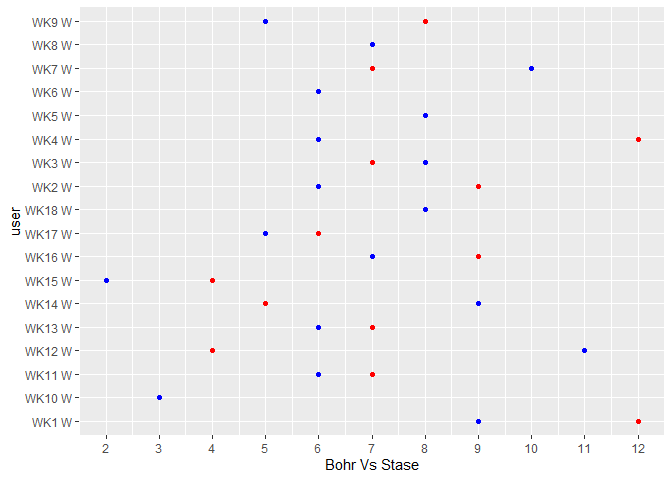
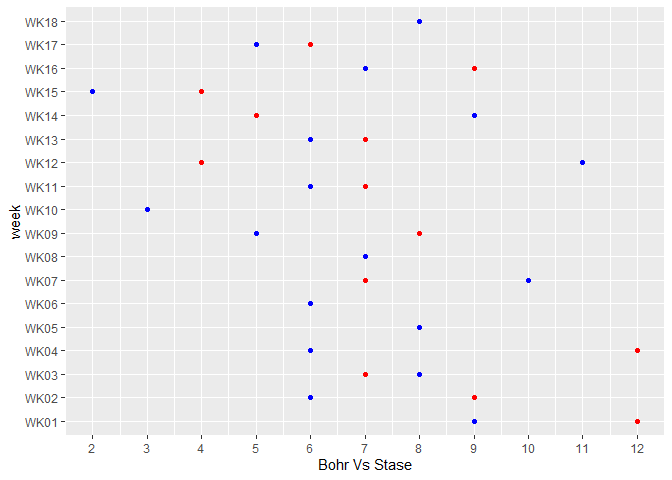
correlation matrix

diff --git a/Pickem.md b/Pickem.md
@@ -5,21 +5,21 @@ Pickem Charts
 library(tidyverse)
 library(moderndive)
 library(janitor)
+library(corrr)
 ```
 
 ``` r
 Pickem <- read_csv(here::here("2021- Pickem League Wins.csv")) %>% 
-  clean_names() %>% 
-  select(-'x15':-'x27')
+  clean_names()
 ```
 
 ``` r
 Chris <- Pickem %>% 
-  summarise(chris,user)
+  summarise(chris,week)
 Jake <- Pickem %>% 
-  summarise(jake,user)
+  summarise(jake,week)
 
-ggplot() + geom_point(data=Chris,aes(x=chris, y=user), colour='red') + geom_point(alpha=.5) + geom_point(data=Jake, aes(x=jake, y=user), colour= 'blue') + geom_point(alpha=.5)
+ggplot() + geom_point(data=Chris,aes(x=chris, y=week), colour='red') + geom_point(alpha=.5) + geom_point(data=Jake, aes(x=jake, y=week), colour= 'blue') + geom_point(alpha=.5)
 ```
 
 ![](Pickem_files/figure-gfm/Comparison%20of%20Chris%20Vs%20Jake-1.png)<!-- -->
@@ -27,18 +27,75 @@ ggplot() + geom_point(data=Chris,aes(x=chris, y=user), colour='red') + geom_poin
 ``` r
  Mean_WK <-Pickem %>% 
  rowwise() %>% 
-  mutate(m=mean(c_across(2:12)))
+  mutate(m=mean(c_across(2:12))) %>% 
+  ungroup() %>% 
+  summarise(m)
+Mean_WK
 ```
+
+    ## # A tibble: 18 × 1
+    ##        m
+    ##    <dbl>
+    ##  1  7.64
+    ##  2  7.73
+    ##  3  7.82
+    ##  4  8.55
+    ##  5  8.64
+    ##  6  6.64
+    ##  7  6.91
+    ##  8  6.73
+    ##  9  6.73
+    ## 10  5.45
+    ## 11  6.82
+    ## 12  6.82
+    ## 13  6.45
+    ## 14  7.82
+    ## 15  6.45
+    ## 16  7.36
+    ## 17  6.27
+    ## 18  6.36
 
 ``` r
 jack <- Pickem %>% 
-  summarise(jack,user)
+  summarise(jack,week)
 matt <- Pickem %>% 
-  summarise(matt,user)
+  summarise(matt,week)
 
-BvM <- ggplot() + geom_point(data=jack,aes(x=jack, y=user), colour='red') + geom_point(alpha=.5) + geom_point(data=matt, aes(x=matt, y=user), colour= 'blue') + geom_point(alpha=.5)
+BvM <- ggplot() + geom_point(data=jack,aes(x=jack, y=week), colour='red') + geom_point(alpha=.5) + geom_point(data=matt, aes(x=matt, y=week), colour= 'blue') + geom_point(alpha=.5)
 
-BvM + scale_x_continuous(name="Bohr Vs Stase", breaks =c(0,1,2,3,4,5,6,7,8,9,10,11,12,13,14,15,16))
+BvM + scale_x_continuous(name="Bohr Vs Stase", breaks =c(0:16))
 ```
 
 ![](Pickem_files/figure-gfm/Bohr%20vs%20Stase-1.png)<!-- -->
+
+``` r
+ Corr_Mn <-Pickem %>% 
+ rowwise() %>% 
+  mutate(m=mean(c_across(2:12))) %>% select(2:13) %>% 
+    correlate()
+```
+
+    ## Correlation computed with
+    ## • Method: 'pearson'
+    ## • Missing treated using: 'pairwise.complete.obs'
+
+``` r
+Corr_Mn
+```
+
+    ## # A tibble: 12 × 13
+    ##    term      jack    jake     tim     mike   chris    matt  keegan      kev
+    ##    <chr>    <dbl>   <dbl>   <dbl>    <dbl>   <dbl>   <dbl>   <dbl>    <dbl>
+    ##  1 jack   NA       0.530   0.385   0.0990   0.0166  0.229   0.108   0.240  
+    ##  2 jake    0.530  NA       0.139   0.237    0.196   0.427   0.122   0.0123 
+    ##  3 tim     0.385   0.139  NA       0.338    0.425   0.126   0.0262  0.172  
+    ##  4 mike    0.0990  0.237   0.338  NA        0.549   0.101  -0.408  -0.0106 
+    ##  5 chris   0.0166  0.196   0.425   0.549   NA       0.318  -0.540   0.0590 
+    ##  6 matt    0.229   0.427   0.126   0.101    0.318  NA      -0.140  -0.0458 
+    ##  7 keegan  0.108   0.122   0.0262 -0.408   -0.540  -0.140  NA      -0.193  
+    ##  8 kev     0.240   0.0123  0.172  -0.0106   0.0590 -0.0458 -0.193  NA      
+    ##  9 andy   -0.0236 -0.0162 -0.300  -0.0938  -0.142  -0.382  -0.118   0.00697
+    ## 10 miller -0.128  -0.170   0.0737  0.00116 -0.137  -0.163  -0.259   0.510  
+    ## 11 pranav  0.246   0.597   0.123   0.433    0.305   0.530  -0.0636  0.0848 
+    ## 12 haef    0.0698  0.0784  0.549   0.401    0.35    0.109  -0.176   0.171  
+    ## # … with 4 more variables: andy <dbl>, miller <dbl>, pranav <dbl>, haef <dbl>
